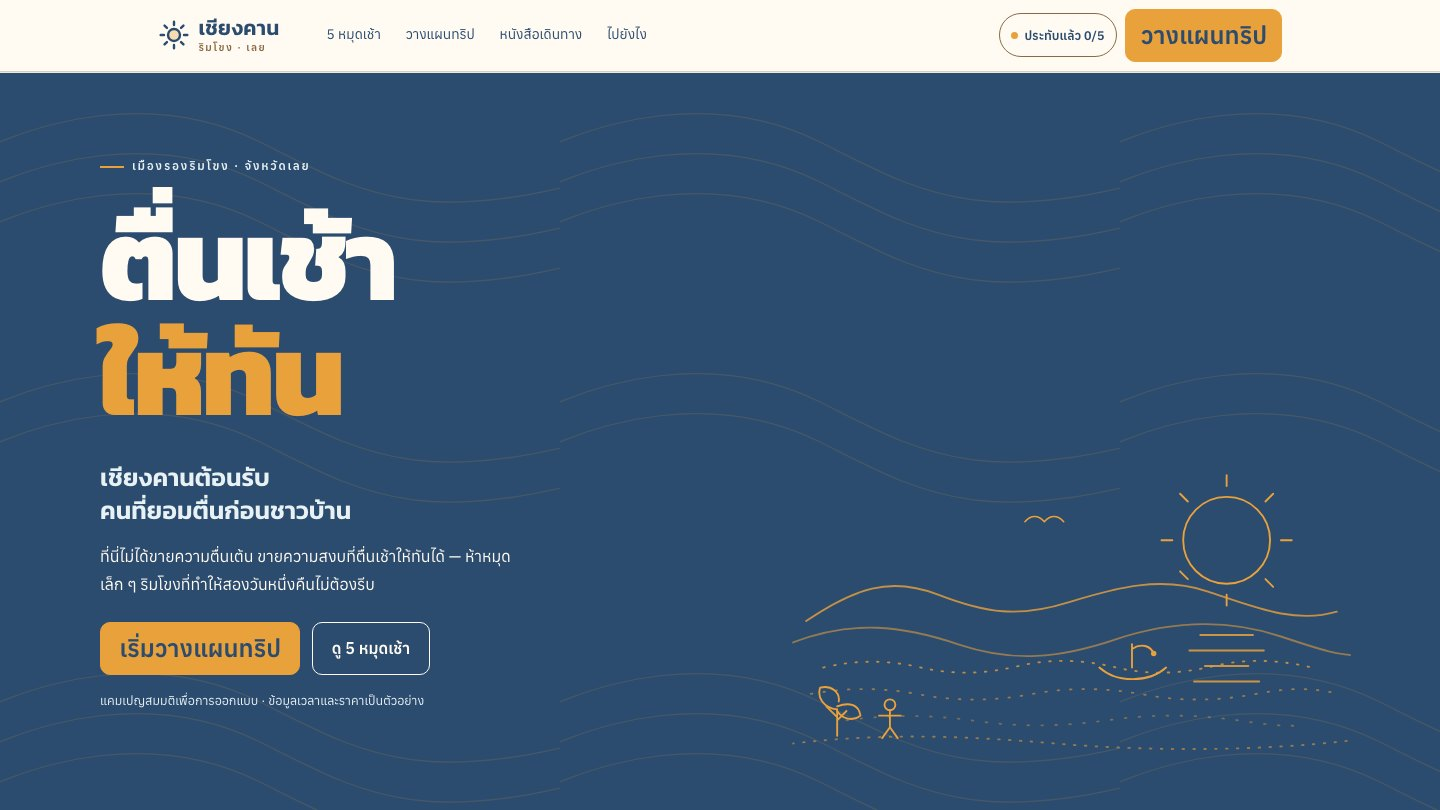
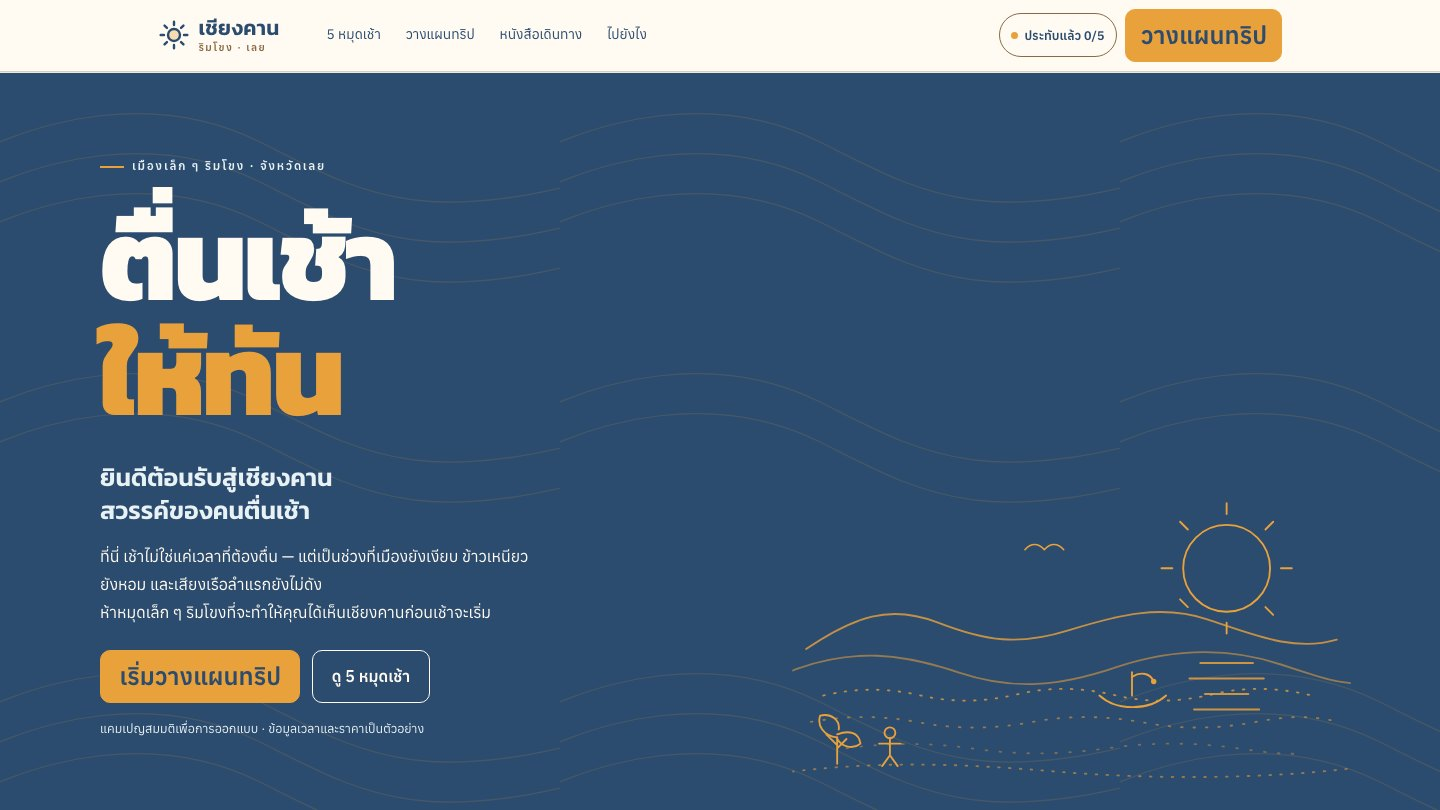
feat: refine Chiang Khan Thai copy
Move the hero to a welcome-plus-promise voice, tighten the section headings and stop copy, soften the planner/passport microcopy, fix the semantic slips, and refresh the home subtitle and cover for the new hero.

diff --git a/chiang-khan/index.html b/chiang-khan/index.html
@@ -1,7 +1,7 @@
 ---
 layout: project
 title: "เชียงคาน — ตื่นเช้าให้ทัน"
-description: "เชียงคาน จังหวัดเลย เมืองรองริมโขงที่ชวนตื่นเช้า 5 หมุด วางแผน 2 วัน 1 คืน และเก็บตราประทับในหนังสือเดินทางเล่มจิ๋ว"
+description: "เชียงคาน จังหวัดเลย เมืองเล็ก ๆ ริมโขงที่ชวนตื่นเช้า 5 หมุด วางแผน 2 วัน 1 คืน และเก็บตราประทับในหนังสือเดินทางเล่มจิ๋ว"
 permalink: /chiang-khan/
 project_slug: chiang-khan
 project_js: /assets/chiang-khan/js/main.mjs
@@ -233,10 +233,10 @@ theme_color: "#2B4B6F"
       <div class="ck-hero__topo" aria-hidden="true"></div>
       <div class="ck-hero__inner">
         <div class="ck-hero__copy">
-          <p class="ck-eyebrow ck-eyebrow--light">เมืองรองริมโขง · จังหวัดเลย</p>
+          <p class="ck-eyebrow ck-eyebrow--light">เมืองเล็ก&nbsp;ๆ ริมโขง · จังหวัดเลย</p>
           <h1 id="ck-hero-title">ตื่นเช้า<br><span>ให้ทัน</span></h1>
-          <p class="ck-hero__sub">เชียงคานต้อนรับ<br>คนที่ยอมตื่นก่อนชาวบ้าน</p>
-          <p class="ck-hero__lede">ที่นี่ไม่ได้ขายความตื่นเต้น ขายความสงบที่ตื่นเช้าให้ทันได้ — ห้าหมุดเล็ก&nbsp;ๆ ริมโขงที่ทำให้สองวันหนึ่งคืนไม่ต้องรีบ</p>
+          <p class="ck-hero__sub">ยินดีต้อนรับสู่เชียงคาน<br>สวรรค์ของคนตื่นเช้า</p>
+          <p class="ck-hero__lede">ที่นี่ เช้าไม่ใช่แค่เวลาที่ต้องตื่น — แต่เป็นช่วงที่เมืองยังเงียบ ข้าวเหนียวยังหอม และเสียงเรือลำแรกยังไม่ดัง<br>ห้าหมุดเล็ก&nbsp;ๆ ริมโขงที่จะทำให้คุณได้เห็นเชียงคาน<span class="ck-nowrap">ก่อนเช้าจะเริ่ม</span></p>
           <div class="ck-hero__actions">
             <a class="ck-btn ck-btn--gold" href="#planner">เริ่มวางแผนทริป</a>
             <a class="ck-btn ck-btn--outline-light" href="#stops">ดู 5 หมุดเช้า</a>
@@ -258,8 +258,8 @@ theme_color: "#2B4B6F"
     <section class="ck-section ck-stops" id="stops" aria-labelledby="ck-stops-title">
       <div class="ck-section__head">
         <p class="ck-eyebrow">01 / 5 หมุดเช้า</p>
-        <h2 id="ck-stops-title">ห้าหมุดที่ทำให้เช้าวันหนึ่งมีความหมาย</h2>
-        <p class="ck-section__intro">สี่หมุดอยู่ในเช้าวันแรก อีกหมุดรออยู่เช้าวันที่สอง — ไม่ต้องรีบ แต่ต้องตื่นให้ทัน</p>
+        <h2 id="ck-stops-title">ห้าหมุดที่ทำให้เช้ายาวขึ้น</h2>
+        <p class="ck-section__intro">สี่หมุดอยู่ในเช้าแรก อีกหมุดรออยู่เช้าที่สอง — ไม่ต้องรีบ แค่ตื่นให้ทัน</p>
       </div>
       <div class="ck-stops__map">
         <div class="ck-stops__line" aria-hidden="true"></div>
@@ -297,8 +297,8 @@ theme_color: "#2B4B6F"
     <section class="ck-section ck-planner" id="planner" aria-labelledby="ck-planner-title">
       <div class="ck-section__head">
         <p class="ck-eyebrow">02 / วางแผนทริป</p>
-        <h2 id="ck-planner-title">สองวันหนึ่งคืน<br>ที่คุณจัดเองได้</h2>
-        <p class="ck-section__intro">เลือก 3–5 หมุดที่อยากไป แล้วเราจะเรียงเป็นไทม์ไลน์ให้ — เวลาและราคาเป็นตัวอย่าง ปรับตามจังหวะของคุณได้เลย</p>
+        <h2 id="ck-planner-title">สองวันหนึ่งคืน<br>ที่จะได้เห็นเชียงคานตื่น</h2>
+        <p class="ck-section__intro">เลือก 3–5 หมุดที่อยากไป แล้วเราจะเรียงให้เป็นสองวัน — เวลาและราคาเป็นตัวอย่าง ปรับตามจังหวะของคุณได้เลย</p>
       </div>
       <noscript><p class="ck-noscript">ตัววางแผนและตราประทับต้องใช้ JavaScript — เนื้อหาทั้งหมดยังอ่านได้ตามปกติ</p></noscript>
       <div class="ck-planner__grid">
@@ -319,15 +319,15 @@ theme_color: "#2B4B6F"
               {% endfor %}
             </div>
           </fieldset>
-          <p class="ck-picker__message" id="ckPlanMessage" role="status" aria-live="polite">เลือกอย่างน้อย 3 หมุดเพื่อเริ่มวางแผน</p>
+          <p class="ck-picker__message" id="ckPlanMessage" role="status" aria-live="polite">เลือกอย่างน้อย 3 หมุด แล้วเราเริ่มได้</p>
           <div class="ck-planner__actions">
             <button class="ck-btn ck-btn--gold" type="button" id="ckSavePlan" aria-disabled="true" disabled>บันทึกแผนนี้</button>
-            <button class="ck-btn ck-btn--outline" type="button" id="ckRandomPlan">สุ่มแผนให้ฉัน</button>
+            <button class="ck-btn ck-btn--outline" type="button" id="ckRandomPlan">ให้เราช่วยเลือก</button>
           </div>
-          <p class="ck-planner__save-note" id="ckSaveNote">ยังไม่มีแผนที่บันทึก</p>
+          <p class="ck-planner__save-note" id="ckSaveNote">ยังไม่ได้บันทึกแผนไว้</p>
         </div>
         <div class="ck-planner__output">
-          <div class="ck-timeline" id="ckTimeline" role="group" aria-label="ไทม์ไลน์ทริป 2 วัน 1 คืน">
+          <div class="ck-timeline" id="ckTimeline" role="group" aria-label="ลำดับทริป 2 วัน 1 คืน">
             <p class="ck-timeline__empty" id="ckTimelineEmpty">ยังไม่ได้เลือกหมุด — เริ่มจาก 3 หมุดที่อยากไปก่อน</p>
           </div>
           <div class="ck-summary" id="ckSummary" hidden>
@@ -343,8 +343,8 @@ theme_color: "#2B4B6F"
     <section class="ck-section ck-passport-section" id="passport" aria-labelledby="ck-passport-title">
       <div class="ck-section__head">
         <p class="ck-eyebrow ck-eyebrow--light">03 / หนังสือเดินทาง</p>
-        <h2 id="ck-passport-title">เก็บความทรงจำ<br>ไว้ในเล่มจิ๋ว</h2>
-        <p class="ck-section__intro">ทุกหมุดที่คุณประทับจะถูกเก็บไว้ที่นี่ ครบ 5 หมุดเมื่อไหร่ หน้ากระดาษสุดท้ายจะเปิดออก</p>
+        <h2 id="ck-passport-title">เก็บเช้านี้<br>ไว้ในเล่มจิ๋ว</h2>
+        <p class="ck-section__intro">ทุกหมุดที่คุณประทับจะอยู่ในเล่มนี้ ครบ 5 หมุดเมื่อไหร่ หน้ากระดาษสุดท้ายจะเปิดออก</p>
       </div>
       <div class="ck-passport" id="ckPassport">
         <div class="ck-passport__cover">
@@ -388,7 +388,7 @@ theme_color: "#2B4B6F"
           <div class="ck-passport__complete" id="ckPassportComplete" hidden>
             <p class="ck-passport__complete-kicker">ใบปิดท้าย</p>
             <h3>ครบทั้ง 5 หมุดแล้ว</h3>
-            <p>เชียงคานไม่ได้ขอให้คุณรีบไปไหน — แค่ตื่นให้ทันเช้าวันหนึ่งก็พอ เก็บเล่มนี้ไว้ แล้วกลับมาอีกครั้งเมื่ออยากฟังเสียงเรือ</p>
+            <p>เชียงคานไม่ได้เร่งให้คุณไปไหน — แค่ตื่นให้ทันเช้าวันหนึ่งก็พอ เก็บเล่มนี้ไว้ แล้วกลับมาอีกครั้งเมื่ออยากฟังเสียงเรือ</p>
             <div class="ck-passport__complete-actions">
               <button class="ck-btn ck-btn--gold" type="button" id="ckPrint">พิมพ์เล่มนี้</button>
               <button class="ck-btn ck-btn--outline" type="button" id="ckShare">คัดลอกลิงก์แชร์</button>
@@ -404,14 +404,14 @@ theme_color: "#2B4B6F"
       <div class="ck-section__head">
         <p class="ck-eyebrow">04 / ไปยังไง</p>
         <h2 id="ck-travel-title">ไปให้ถึง<br>ก่อนแดดขึ้น</h2>
-        <p class="ck-section__intro">เชียงคานอยู่ไกลจากกรุงเทพฯ พอสมควร — เลือกทางที่เหมาะกับเวลาและงบของคุณ</p>
+        <p class="ck-section__intro">เชียงคานไม่ใช่เมืองที่ไปถึงง่าย&nbsp;ๆ — แต่มีหลายทางให้เลือกตามเวลาและงบของคุณ</p>
       </div>
       <div class="ck-travel__grid">
         <article class="ck-travel-card">
           <svg viewBox="0 0 24 24" aria-hidden="true"><use href="#ck-icon-bus"></use></svg>
           <h3>รถทัวร์จากกรุงเทพฯ</h3>
-          <p>ขึ้นที่หมอชิต 2 รถออกช่วงเย็น ใช้เวลาประมาณ 9–10 ชั่วโมง ถึงเชียงคานเช้ามืด</p>
-          <p class="ck-travel-card__note">ตารางและราคาเปลี่ยนได้ ตรวจสอบกับผู้ให้บริการก่อนเดินทาง</p>
+          <p>ขึ้นที่หมอชิต 2 รถออกช่วงเย็น ใช้เวลาประมาณ 9–10 ชั่วโมง ถึงเชียงคานตอนเช้ามืด</p>
+          <p class="ck-travel-card__note">ตารางและราคาอาจเปลี่ยนแปลง ตรวจสอบกับผู้ให้บริการก่อนเดินทาง</p>
         </article>
         <article class="ck-travel-card">
           <svg viewBox="0 0 24 24" aria-hidden="true"><use href="#ck-icon-train"></use></svg>
@@ -428,20 +428,20 @@ theme_color: "#2B4B6F"
       </div>
       <div class="ck-travel__season">
         <svg viewBox="0 0 24 24" aria-hidden="true"><use href="#ck-icon-sun"></use></svg>
-        <p><strong>ช่วงที่ไปสวย: พฤศจิกายน–กุมภาพันธ์</strong><span>อากาศเย็น มีหมอกตอนเช้า; ถ้าอยากเห็นแก่งหินชัด น้ำลดช่วงกุมภาพันธ์–พฤษภาคม</span></p>
+        <p><strong>ช่วงที่อากาศดี: พฤศจิกายน–กุมภาพันธ์</strong><span>อากาศเย็น มีหมอกตอนเช้า; ถ้าอยากเห็นแก่งหินชัด น้ำลดช่วงกุมภาพันธ์–พฤษภาคม</span></p>
       </div>
-      <p class="ck-travel__disclaimer">※ ข้อมูลเวลา ราคา และเส้นทางเป็นตัวอย่างเพื่อการออกแบบ ไม่ใช่การรับจอง — โปรดตรวจสอบกับผู้ให้บริการก่อนเดินทาง</p>
+      <p class="ck-travel__disclaimer">※ ข้อมูลเวลา ราคา และเส้นทางเป็นตัวอย่างเพื่อการออกแบบ ไม่ใช่การรับจอง — ควรตรวจสอบกับผู้ให้บริการก่อนเดินทาง</p>
     </section>
 
     <section class="ck-section ck-faq" id="faq" aria-labelledby="ck-faq-title">
       <div class="ck-section__head">
         <p class="ck-eyebrow">05 / คำถามที่เจอบ่อย</p>
         <h2 id="ck-faq-title">ก่อนออกเดินทาง</h2>
-        <p class="ck-section__intro">คำถามที่เพื่อน&nbsp;ๆ ถามบ่อยก่อนไปเชียงคาน — ตอบแบบสั้น&nbsp;ๆ ตามที่เราเจอมา</p>
+        <p class="ck-section__intro">คำถามที่เพื่อน&nbsp;ๆ มักถามก่อนไปเชียงคาน — เราตอบจากที่เราเจอมาเอง</p>
       </div>
       <div class="ck-faq__list">
         <details class="ck-faq__item">
-          <summary><span>ไปกี่วันดี</span><span class="ck-faq__icon" aria-hidden="true"></span></summary>
+          <summary><span>ควรไปกี่วัน</span><span class="ck-faq__icon" aria-hidden="true"></span></summary>
           <div class="ck-faq__answer"><p>2 วัน 1 คืน พอสำหรับ 5 หมุดและเวลาเดินเล่นริมโขง ถ้ามี 3 วัน จะได้นั่งกาแฟนานขึ้นโดยไม่ต้องดูนาฬิกา</p></div>
         </details>
         <details class="ck-faq__item">
@@ -450,15 +450,15 @@ theme_color: "#2B4B6F"
         </details>
         <details class="ck-faq__item">
           <summary><span>เดินทางจากกรุงเทพฯ ยังไง</span><span class="ck-faq__icon" aria-hidden="true"></span></summary>
-          <div class="ck-faq__answer"><p>ที่นอนสบายที่สุดคือรถทัวร์รอบเย็น ประมาณ 9–10 ชั่วโมง อีกทางคือรถไฟถึงอุดรธานีหรือหนองคาย แล้วต่อรถเข้าเชียงคาน</p></div>
+          <div class="ck-faq__answer"><p>ถ้าอยากนอนให้เต็มคืน รถทัวร์รอบเย็นช่วยให้คุณหลับไปกับถนน ประมาณ 9–10 ชั่วโมง อีกทางคือรถไฟถึงอุดรธานีหรือหนองคาย แล้วต่อรถเข้าเชียงคาน</p></div>
         </details>
         <details class="ck-faq__item">
-          <summary><span>ไปช่วงไหนสวย</span><span class="ck-faq__icon" aria-hidden="true"></span></summary>
+          <summary><span>ช่วงไหนน่าไป</span><span class="ck-faq__icon" aria-hidden="true"></span></summary>
           <div class="ck-faq__answer"><p>พฤศจิกายน–กุมภาพันธ์ อากาศเย็นและมีหมอก ถ้าอยากเห็นแก่งหินโผล่ชัด ให้เลือกช่วงกุมภาพันธ์–พฤษภาคมที่น้ำลด</p></div>
         </details>
         <details class="ck-faq__item">
-          <summary><span>เที่ยวเชียงคานทั้งวันได้ไหม</span><span class="ck-faq__icon" aria-hidden="true"></span></summary>
-          <div class="ck-faq__answer"><p>ได้ แต่เชียงคานเหมาะกับการไปช้า&nbsp;ๆ มากกว่า เช้าเก็บหมุด บ่ายพักผ่อน เย็นเดินตลาด — จะได้ไม่ต้องรีบข้ามวัน</p></div>
+          <summary><span>อยู่เชียงคานทั้งวันได้ไหม</span><span class="ck-faq__icon" aria-hidden="true"></span></summary>
+          <div class="ck-faq__answer"><p>ได้ แต่เชียงคานเหมาะกับการไปช้า&nbsp;ๆ มากกว่า เช้าเก็บหมุด บ่ายพักผ่อน เย็นเดินตลาด — จะได้ไม่ต้องรีบทั้งวัน</p></div>
         </details>
         <details class="ck-faq__item">
           <summary><span>มีอะไรต้องระวัง</span><span class="ck-faq__icon" aria-hidden="true"></span></summary>
@@ -472,7 +472,7 @@ theme_color: "#2B4B6F"
     <div class="ck-footer__inner">
       <div>
         <p class="ck-footer__title">เชียงคาน — ตื่นเช้าให้ทัน</p>
-        <p class="ck-footer__note">แคมเปญสมมติเพื่อการออกแบบ · ภาพประกอบวาดเส้นด้วยมือ · ไม่มีรูปถ่าย stock</p>
+        <p class="ck-footer__note">แคมเปญสมมติเพื่อการออกแบบ · ภาพประกอบวาดเส้นด้วยมือทั้งหมด · ไม่มีภาพถ่าย stock</p>
       </div>
       <div class="ck-footer__meta">
         <p>ริมโขง · เลย · ประเทศไทย</p>

diff --git a/assets/chiang-khan/css/base.css b/assets/chiang-khan/css/base.css
@@ -178,6 +178,10 @@ button {
   border: 0;
 }
 
+.ck-nowrap {
+  white-space: nowrap;
+}
+
 .ck-symbols {
   position: absolute;
   width: 0;
